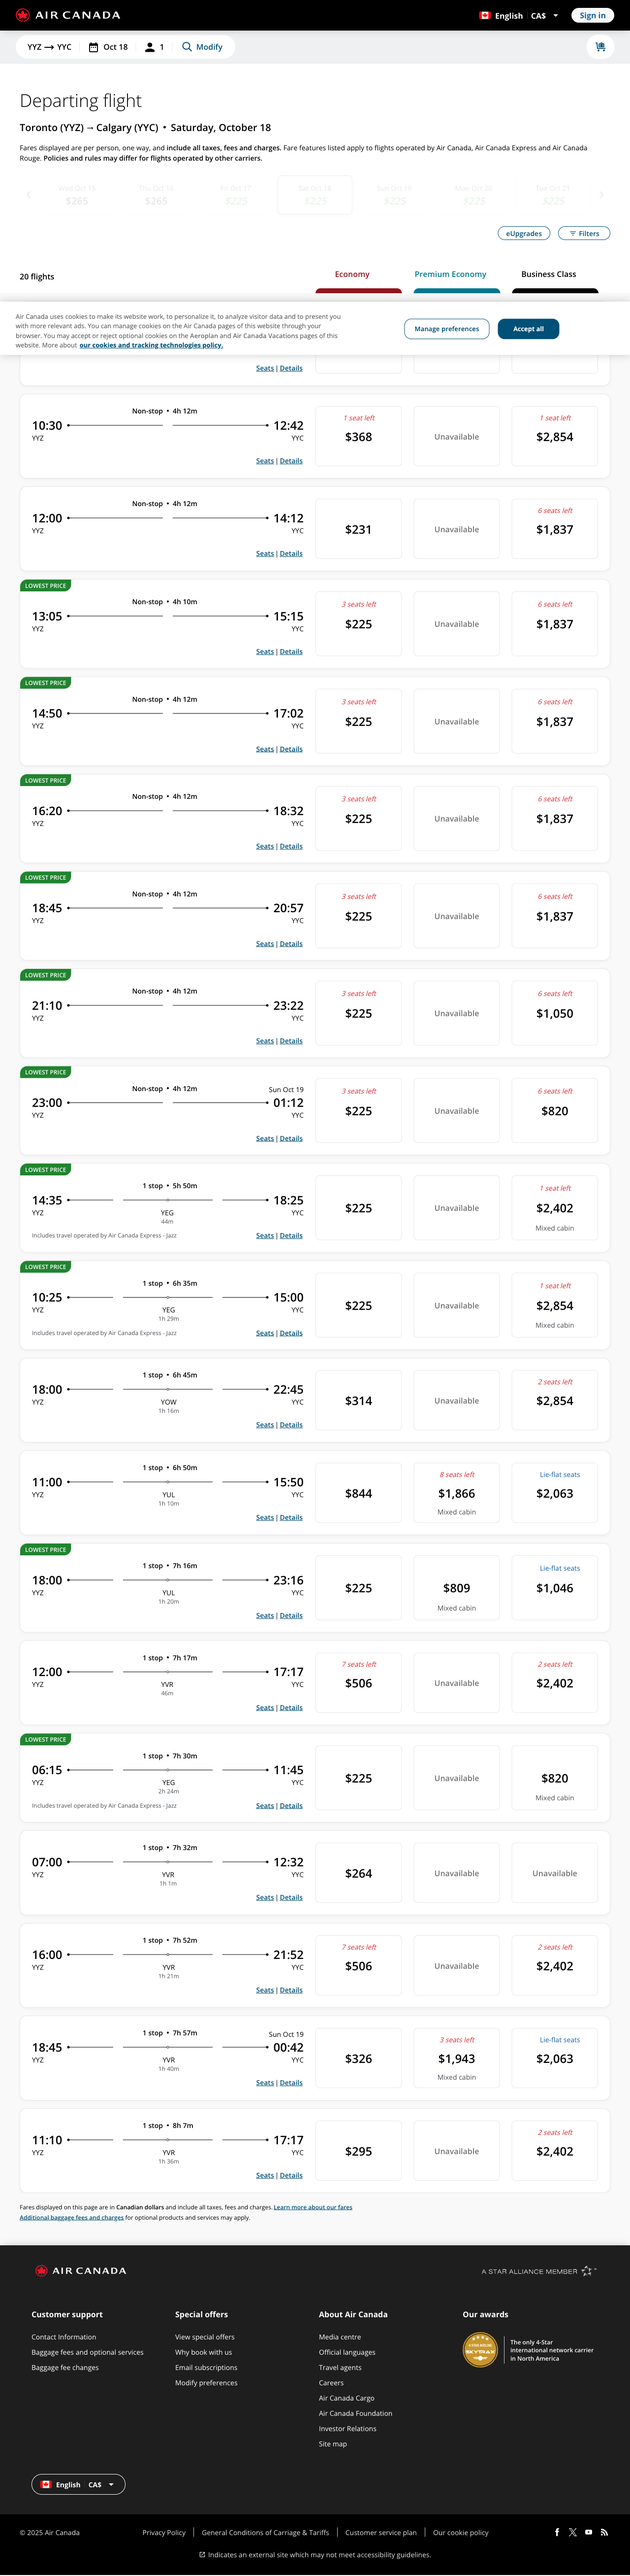
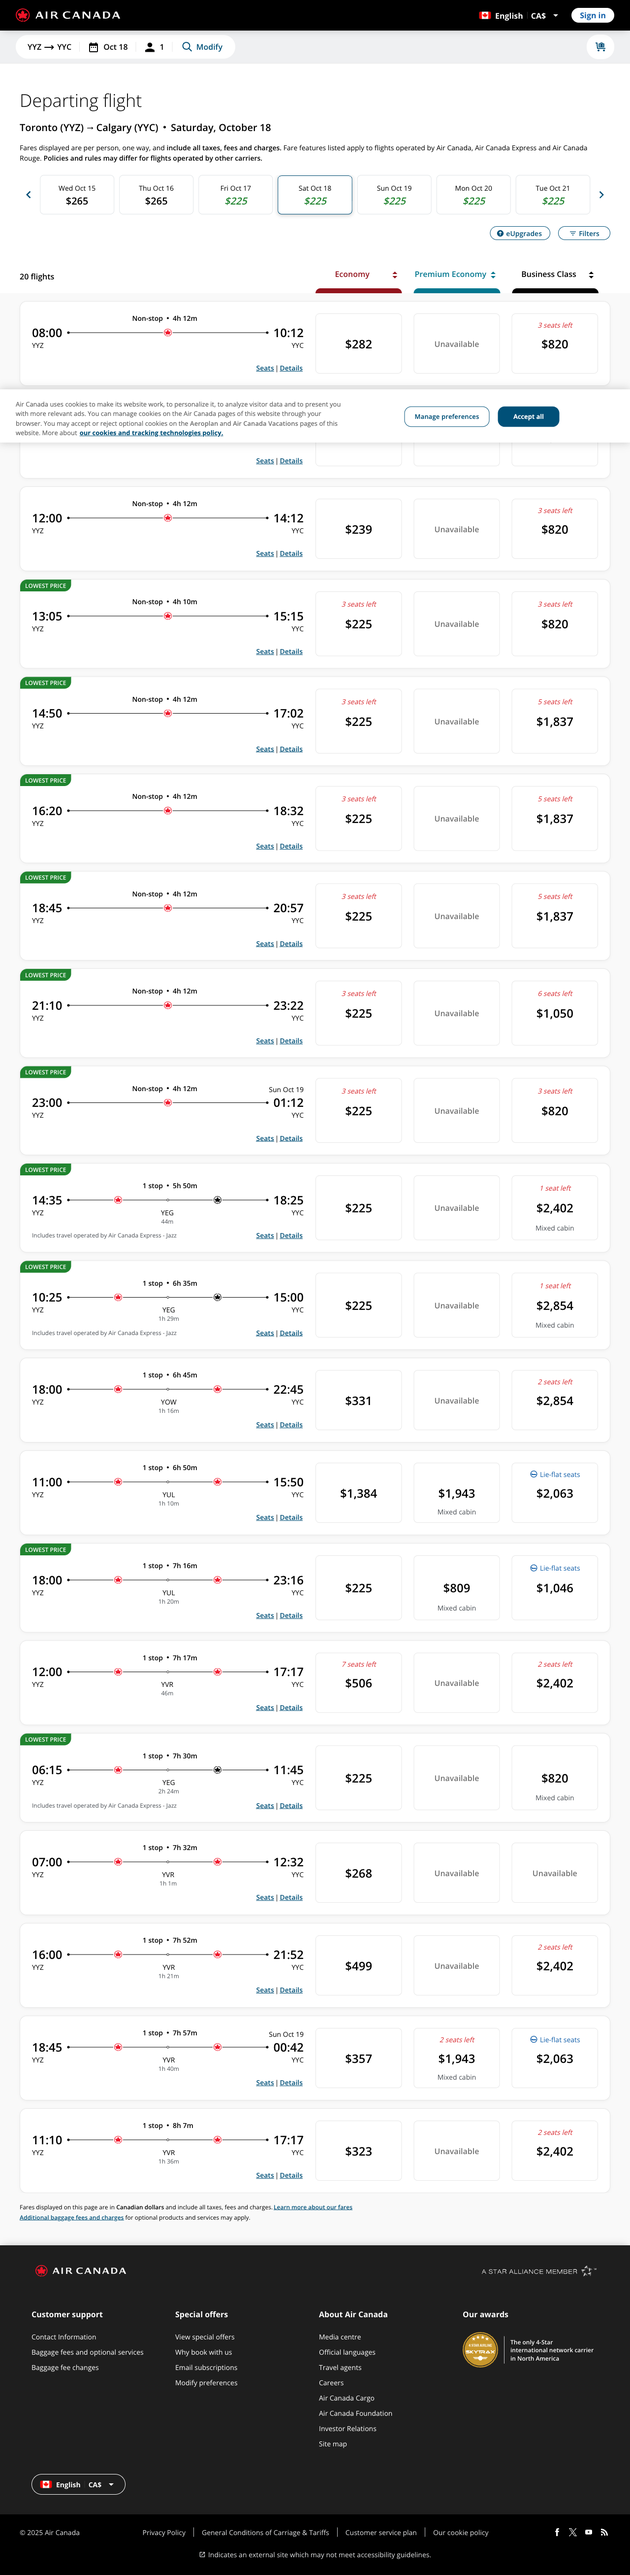
Added proxy, browser, rate management

diff --git a/celery_queue/tasks.py b/celery_queue/tasks.py
@@ -6,12 +6,14 @@ from typing import Dict
 from celery.signals import worker_process_init, worker_process_shutdown
 
 from ingestion.extractors.air_canada_extractor import AirCanadaExtractor
-from models.flight import DateRange, FlightRoute
+from models.flight import FlightRoute
 from models.scrape_task import ScrapeRequest
-from orchestration.browser_manager import BrowserManager
+from resource_management import rate_manager
+from resource_management.browser_manager import BrowserManager
 from orchestration.scraper_orchestrator import ScraperOrchestrator
-from models.scrape_task import ScrapeTask
 from celery_app import app
+from resource_management.proxy_manager import ProxyManager
+from resource_management.rate_manager import RateManager
 
 from util.conversions import scrape_request_from_json, scrape_request_to_json
 
@@ -19,6 +21,10 @@ logger = logging.getLogger(__name__)
 
 # Module level -> Every celery worker process imports it
 browser_manager = BrowserManager(browser_type="chromium", config={"headless": False})
+proxy_manager = ProxyManager([{
+    "server": "http://200.174.198.158:8888",
+}])
+rate_manager = RateManager()
 
 @worker_process_init.connect
 def init_browser(**kwargs):
@@ -34,11 +40,20 @@ def shutdown_browser(**kwargs):
 def scrape(request: Dict):
     request = scrape_request_from_json(request)
 
+    # Get unused proxy IP
     logger.info(f"Starting scrape task")
+    proxy = asyncio.get_event_loop().run_until_complete(proxy_manager.acquire())
+    if not proxy: return
+    request.proxy = proxy
+
+    # Limit rate globally
+    valid_rate = rate_manager.acquire(request.airline, 60)
+    if not valid_rate: return
 
     browser = browser_manager.get_browser()
     orch = ScraperOrchestrator(browser)
     asyncio.get_event_loop().run_until_complete(orch.scrape_request(request))
+    asyncio.get_event_loop().run_until_complete(proxy_manager.release(proxy))
 
 @app.task
 def schedule():

diff --git a/ingestion/scrapers/air_canada_scraper.py b/ingestion/scrapers/air_canada_scraper.py
@@ -6,7 +6,7 @@ from ingestion.scrapers.base_scraper import BaseScraper
 from models.flight import FlightPrice
 from models.scrape_task import ScrapeRequest
 
-from playwright.async_api import Browser, Page
+from playwright.async_api import Browser, Page, BrowserContext
 
 
 # noinspection DuplicatedCode
@@ -14,11 +14,10 @@ class AirCanadaScraper(BaseScraper):
     def __init__(self, browser: Browser):
         super().__init__(browser)
 
-    async def scrape_html_content(self, request: ScrapeRequest) -> str:
-        return await self.scrape_html_content_one_way(request)
+    async def scrape_html_content(self, request: ScrapeRequest, context: BrowserContext) -> str:
+        return await self.scrape_html_content_one_way(request, context)
 
-    async def scrape_html_content_one_way(self, request: ScrapeRequest) -> str:
-        context = await self.browser.new_context()
+    async def scrape_html_content_one_way(self, request: ScrapeRequest, context: BrowserContext) -> str:
         page = await context.new_page()
         await page.goto(BASE_URL)
 
@@ -43,7 +42,8 @@ class AirCanadaScraper(BaseScraper):
         await page.click(SEARCH_BUTTON_SELECTOR)
 
         # Wait for results
-        await page.wait_for_url(re.compile(rf"{NOT_FOUND_URL}|{ONE_WAY_FOUND_URL}"))
+        await page.wait_for_load_state("domcontentloaded", timeout=DEFAULT_TIMEOUT_MS)
+        await page.wait_for_url(re.compile(rf"{NOT_FOUND_URL}|{ONE_WAY_FOUND_URL}"), timeout=DEFAULT_TIMEOUT_MS)
         await page.screenshot(path="page.png", full_page=True)
         content = await page.content()
         await context.close()

diff --git a/resource_management/rate_manager.py b/resource_management/rate_manager.py
@@ -1,0 +1,42 @@
+import redis
+import time
+from typing import Optional
+
+
+class RateManager:
+    def __init__(self, host: str = "localhost", port: int = 6379, db: int = 0):
+        # Redis connection
+        self.r = redis.Redis(host=host, port=port, db=db)
+
+    def acquire(self, site: str, cooldown: int) -> bool:
+        """
+        Try to acquire permission to scrape a site.
+        Returns True if successful, False if rate-limited.
+
+        :param site: Airline identifier (Ex. AC)
+        :param cooldown: Minimum seconds between scrapes for this site
+        """
+        key = f"rate_limit:{site}"
+        now = int(time.time())
+
+        # SET with NX + EX = only sets if not exists, auto expires
+        acquired = self.r.set(name=key, value=now, nx=True, ex=cooldown)
+
+        return acquired
+
+    def time_left(self, site: str) -> Optional[int]:
+        """
+        Returns TTL (time to wait) for the site's lock, or None if free.
+        """
+        key = f"rate_limit:{site}"
+        ttl = self.r.ttl(key)
+        if ttl == -2:  # Key does not exist
+            return None
+        return ttl
+
+    def force_release(self, site: str):
+        """
+        Manually release a site.
+        """
+        key = f"rate_limit:{site}"
+        self.r.delete(key)

diff --git a/orchestration/scraper_orchestrator.py b/orchestration/scraper_orchestrator.py
@@ -1,15 +1,11 @@
-from playwright.async_api import async_playwright, Browser
-from typing import Dict, List
+from playwright.async_api import Browser
+from typing import List
 
 from models.flight import FlightPrice
 from models.scrape_task import ScrapeRequest
 
-# Airline Imports
-from ingestion.scrapers.base_scraper import BaseScraper
-from ingestion.extractors.base_extractor import BaseExtractor
-
 from orchestration.airlines import AIRLINES
-# from storage.temp_storage import append_to_file
+from storage.temp_storage import append_to_file
 
 
 class ScraperOrchestrator:
@@ -24,8 +20,13 @@ class ScraperOrchestrator:
 
         scraper = airline["scraper"](self.browser)
         extractor = airline["extractor"]()
-        html_content = await scraper.scrape_html_content(request)
+
+        context = await self.new_context(request.proxy)
+        html_content = await scraper.scrape_html_content(request, context)
         scrape_prices: List[FlightPrice] = extractor.extract_flight_price(request, html_content)
         print(scrape_prices)
-        # append_to_file(scrape_prices)
+        append_to_file(scrape_prices)
         return scrape_prices
+
+    async def new_context(self, proxy=None):
+        return await self.browser.new_context(proxy=proxy)

diff --git a/resource_management/proxy_manager.py b/resource_management/proxy_manager.py
@@ -1,0 +1,29 @@
+from typing import Dict, List
+import asyncio
+
+# Type alias for Playwright proxy configs
+ProxyDict = Dict[str, str]
+
+class ProxyManager:
+    def __init__(self, proxies: List[ProxyDict]):
+        self._queue: asyncio.Queue[ProxyDict] = asyncio.Queue()
+        for proxy in proxies:
+            self._queue.put_nowait(proxy)
+
+    async def acquire(self) -> ProxyDict:
+        """
+        Get the next available proxy.
+        Blocks if no proxies are currently free.
+        """
+        proxy = await self._queue.get()
+        return proxy
+
+    async def release(self, proxy: ProxyDict):
+        """
+        Return a proxy back into the pool.
+        """
+        await self._queue.put(proxy)
+
+    def size(self) -> int:
+        """Number of proxies currently available in the pool."""
+        return self._queue.qsize()

diff --git a/ingestion/constants/air_canada.py b/ingestion/constants/air_canada.py
@@ -1,7 +1,7 @@
 import re
 
 # Scraper
-DEFAULT_TIMEOUT_MS = 1000
+DEFAULT_TIMEOUT_MS = 60000
 
 BASE_URL = "https://www.aircanada.com/home/ca/en/aco/flights"
 
@@ -30,7 +30,6 @@ SEARCH_BUTTON_SELECTOR = "#bkmg-desktop_findButton"
 NOT_FOUND_URL = "https://www.aircanada.com/booking/ca/en/aco/no-flights-found"
 FOUND_URL = "https://www.aircanada.com/booking/ca/en/aco/availability/rt/outbound"
 ONE_WAY_FOUND_URL = "https://www.aircanada.com/booking/ca/en/aco/availability/ow/outbound"
-
 
 # Extractor
 DEPART_TIME_SELECTOR = 'div[bound-departure] div[bound-information] span[bound-location]'

diff --git a/ingestion/scrapers/base_scraper.py b/ingestion/scrapers/base_scraper.py
@@ -1,12 +1,13 @@
 from abc import ABC, abstractmethod
 from models.flight import FlightPrice
 from models.scrape_task import ScrapeRequest
-from playwright.async_api import Browser
+from playwright.async_api import Browser, BrowserContext
+
 
 class BaseScraper(ABC):
     def __init__(self, browser: Browser):
         self.browser = browser
 
     @abstractmethod
-    async def scrape_html_content(self, request: ScrapeRequest) -> str:
+    async def scrape_html_content(self, request: ScrapeRequest, context: BrowserContext) -> str:
         pass

diff --git a/storage/temp_storage.py b/storage/temp_storage.py
@@ -1,0 +1,16 @@
+from typing import List
+import os, json
+from models.flight import FlightPrice
+from datetime import datetime
+
+
+def append_to_file(flight_prices: List[FlightPrice]) -> None:
+    data = {}
+    if os.path.exists("temp_data.json"):
+        with open("temp_data.json", "r") as file:
+            data = json.load(file)
+
+    data[datetime.now().isoformat()] = [flight_price.model_dump() for flight_price in flight_prices]
+
+    with open("temp_data.json", "w") as file:
+        json.dump(data, file)

diff --git a/models/scrape_task.py b/models/scrape_task.py
@@ -1,4 +1,3 @@
-from dataclasses import dataclass
 from pydantic import BaseModel
 from datetime import datetime
 from typing import Optional
@@ -17,4 +16,4 @@ class ScrapeRequest(BaseModel):
     outbound: datetime
     airline: str = "AC"
     retries: int = 0
-    proxy: Optional[str] = None
+    proxy: Optional[dict] = None

diff --git a/config/logging_config.py b/config/logging_config.py
@@ -4,5 +4,5 @@ logging.basicConfig(
     filename="../logs/app.log",
     filemode="w",
     format="%(asctime)s [%(levelname)s] %(name)s: %(message)s",
-    level=logging.DEBUG
+    level=logging.INFO
 )
